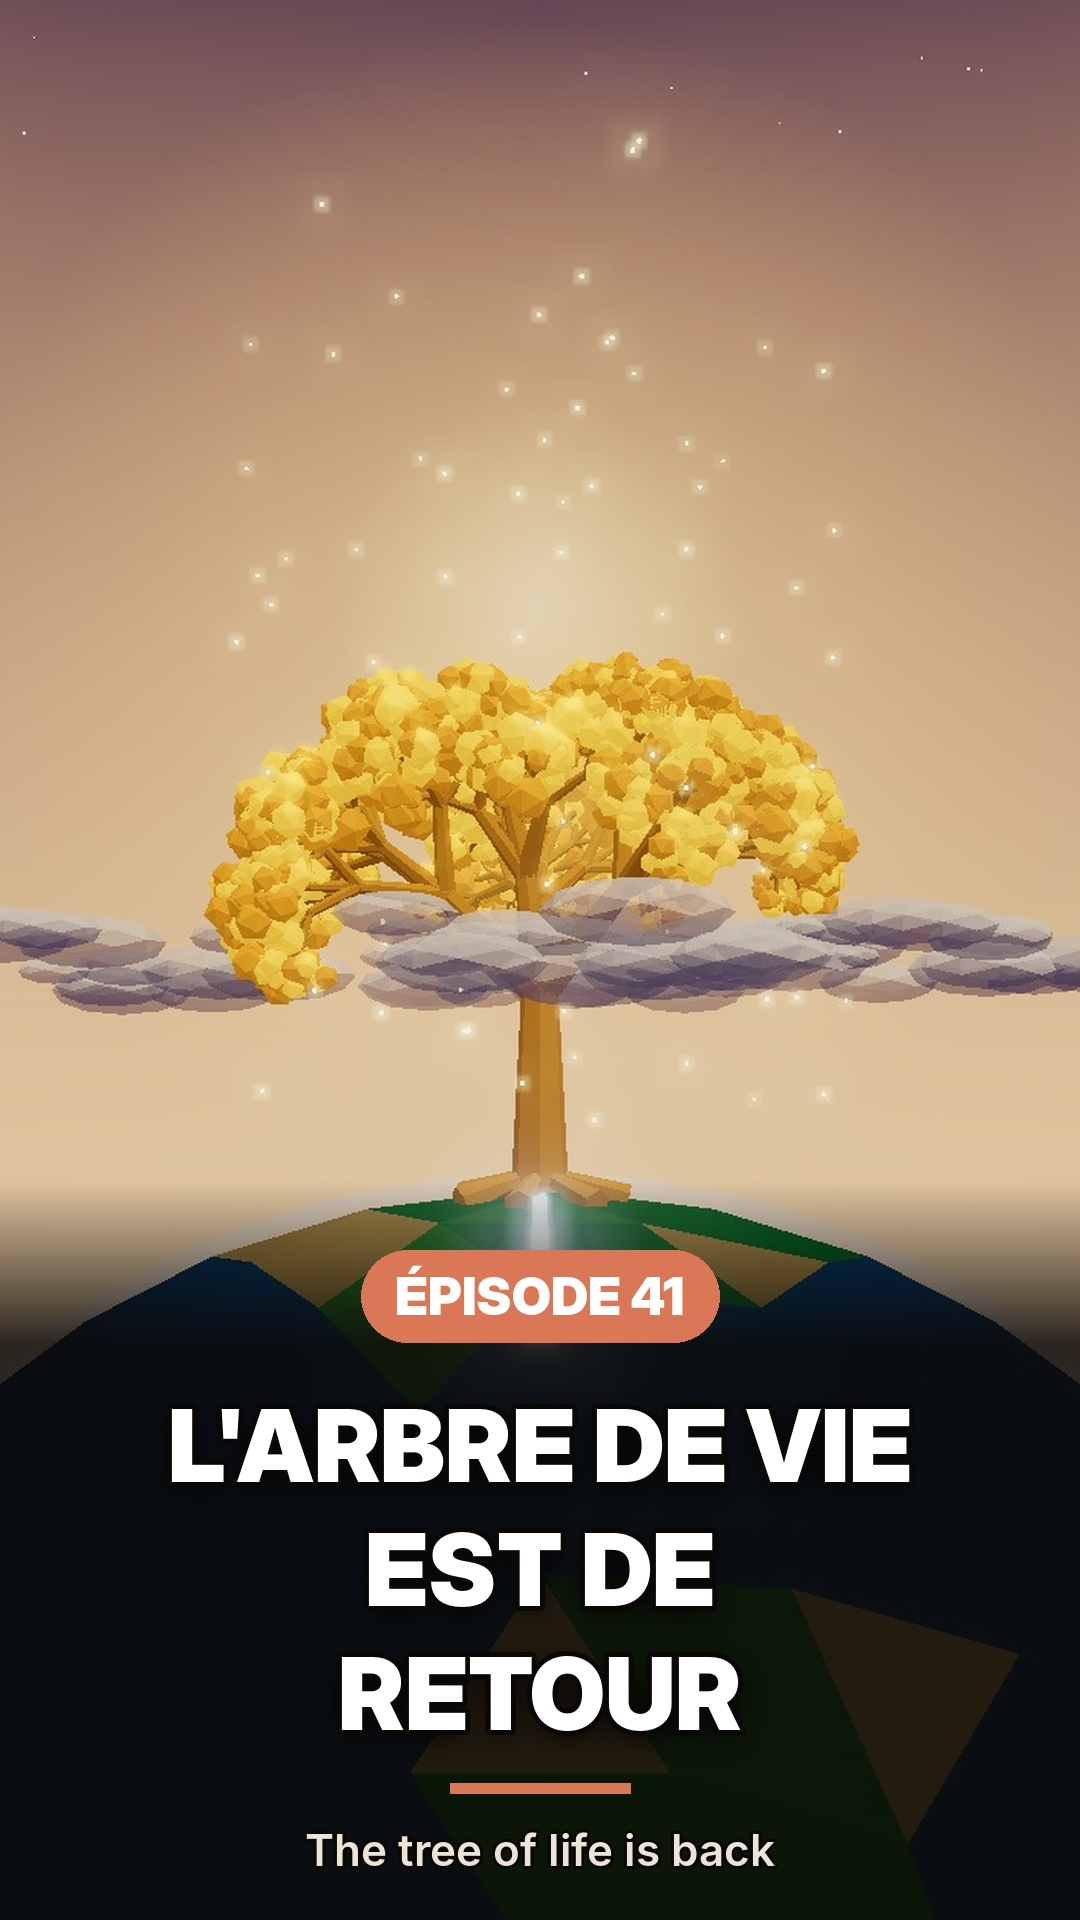
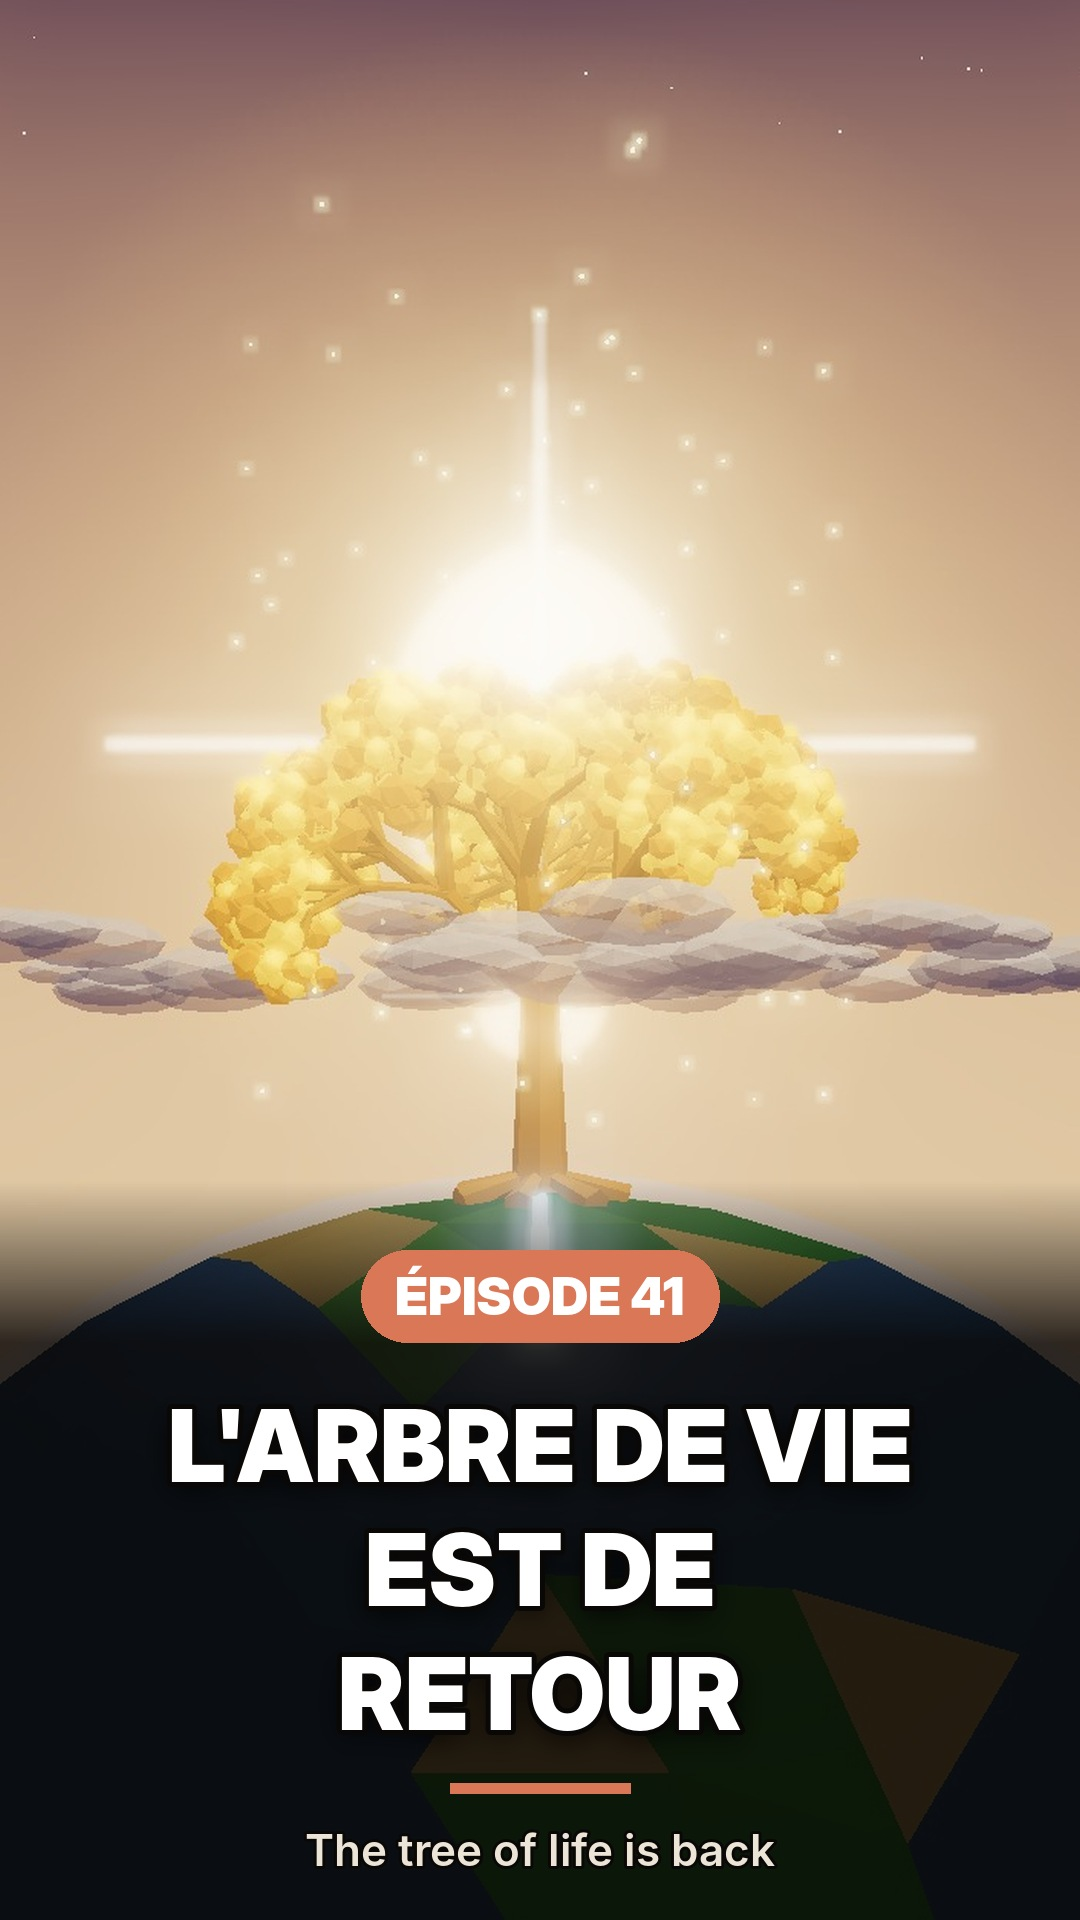
Ep41 : couverture plus lumineuse (éclat derrière l'arbre de vie en or)
Claude-Session: https://claude.ai/code/session_01MdC9EMAfjttt8kZ4HV5TxG

Changed region(s): [[0.0306, 0.1562, 0.9472, 0.6562]]

diff --git a/ep41/web/body.js b/ep41/web/body.js
@@ -310,7 +310,10 @@ SETS.geant = () => {
 };
 // ---------- couverture : l'arbre de vie au bord du fleuve de cristal
 SETS.cover = () => {
-  const B = goldenTreeWorld(); const { scene, cam } = B; B.tick(3);
+  const B = goldenTreeWorld({ bloom: [0.9, 0.6, 0.68], exposure: 0.95 }); const { scene, cam } = B; B.tick(3);
+  const flare = glowStar(330, 0xfff0c0); flare.position.set(0, 150, -80); flare.material.opacity = 0.6; scene.add(flare);
+  const core = glowStar(110, 0xffe8a0); core.position.set(0, 60, -30); core.material.opacity = 0.35; scene.add(core);
+  const shine = new THREE.PointLight(0xffd070, 6, 600, 1.0); shine.position.set(0, 140, 120); scene.add(shine);
   return { ...B, update() { cam.position.set(0, 40, 560); cam.fov = 56; cam.updateProjectionMatrix(); cam.lookAt(0, 70, 0); B.follow(cam); } };
 };
 
